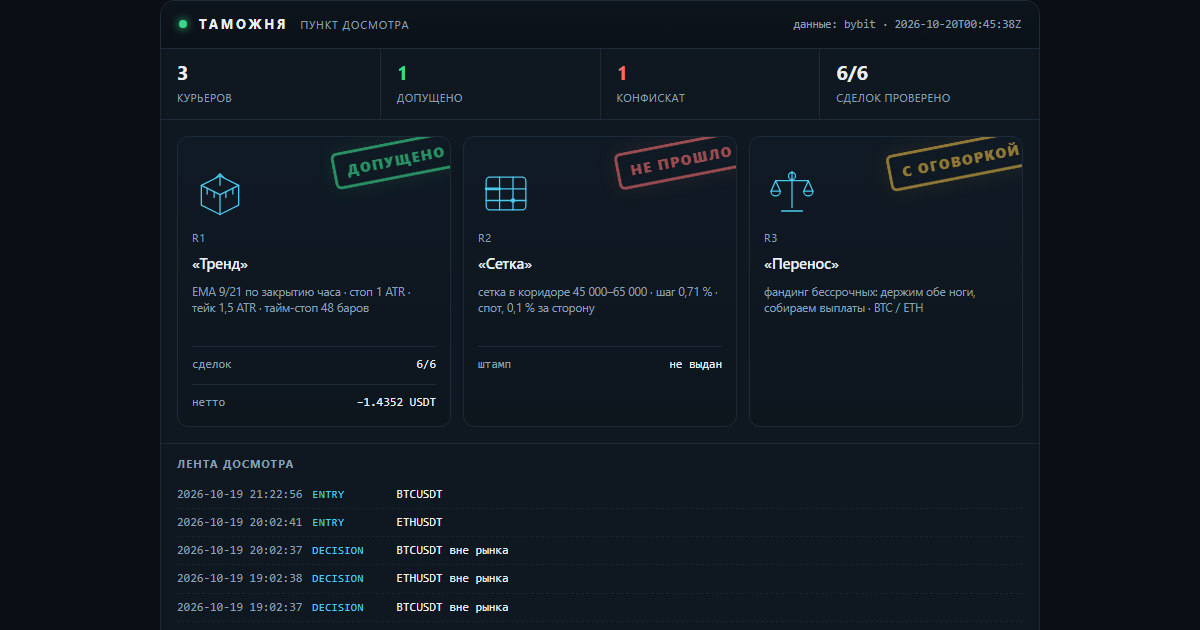
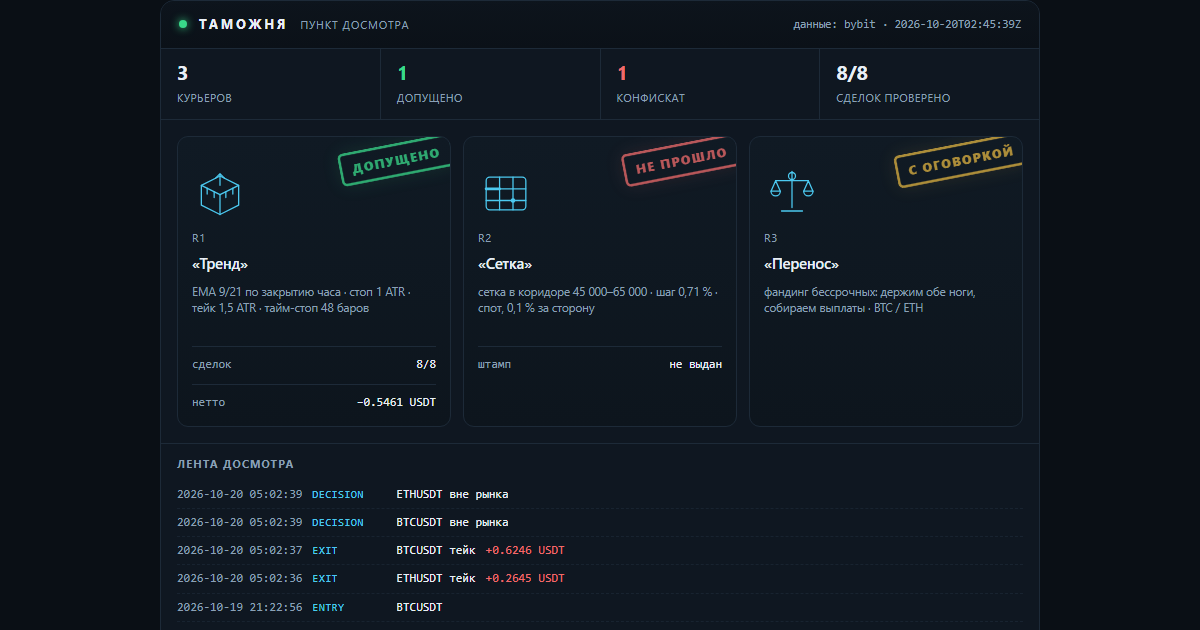
lab: таможня — свежие числа досмотра

diff --git a/docs/customs.html b/docs/customs.html
@@ -16,7 +16,7 @@
   <h1><a href="index.html">Gramwright Lab</a></h1>
   <p>Журнал проверки торговых гипотез: что проверяли, что вышло по факту, сколько съели издержки. Числа берутся из журнала стенда. Не инвестиционная рекомендация.</p>
 </header>
-<h1>Таможня</h1><p class="intro">Пункт досмотра заявленных результатов. Стратегии приезжают с грузом обещаний, и каждая проходит проверку по публичным данным биржи: цены существуют, комиссии по тарифу, нетто сходится. Что прошло — получает штамп. Что не прошло — в конфискат, с причиной. Штамп означает «записи подлинные», а не «стратегия прибыльна».</p><p><img src="img/customs.png" alt="Терминал досмотра: три курьера, штампы, лента событий" style="width:100%;height:auto;border:1px solid var(--line);border-radius:10px"></p><p class="c-note">Сверху — тот же терминал, что собирается из журналов: счётчики, эмблемы курьеров, штампы и лента последних событий. Ниже — то же самое текстом, чтобы читалось с телефона и индексировалось поиском.</p><article><h2>R1 «Тренд» <span class="verdict">— <span class="c-ok">допущено</span></span></h2><p><strong>Правило:</strong> EMA 9/21 по закрытию часа · стоп 1 ATR · тейк 1,5 ATR · тайм-стоп 48 баров</p><p><strong>Декларация:</strong> Заявлено до прогона: держать 30 сделок, лимит нотионала 10 % от счёта, стоп дня −1 %. Прибыль не заявлялась — это важно: курьер не обещал доход.</p><p><strong>Проверено по публичным свечам, без ключей:</strong> 6 из 6 сделок. Сумма нетто −1.4352 USDT.</p><ul class="c-chk"><li class="y">BTCUSDT: нетто −0.8746 USDT · комиссии 0.0901 · проверено · с поправкой</li><li class="y">BTCUSDT: нетто −0.5441 USDT · комиссии 0.0896 · проверено</li><li class="y">ETHUSDT: нетто −0.2253 USDT · комиссии 0.0266 · проверено</li><li class="y">ETHUSDT: нетто −0.1513 USDT · комиссии 0.0265 · проверено</li><li class="y">ETHUSDT: нетто +0.1984 USDT · комиссии 0.0262 · проверено</li><li class="y">ETHUSDT: нетто +0.1617 USDT · комиссии 0.0260 · проверено</li></ul><p class="tags">журнал sha256 4177f691a4db8262… · проверяльщик verify-1</p><p class="c-note">Штамп означает: записи подлинные, а не что стратегия прибыльна. Курьер в минусе, и минус тоже стоит на штампе — иначе это была бы не проверка, а реклама.</p><p class="tags">источник: verify-report.json</p></article><article><h2>R2 «Сетка» <span class="verdict">— <span class="c-bad">не прошло</span></span></h2><p><strong>Правило:</strong> сетка в коридоре 45 000–65 000 · шаг 0,71 % · спот, 0,1 % за сторону</p><p><strong>Декларация:</strong> Заявлено: «44 % урожая уходит бирже в виде комиссий». Кроме того — перевес над простым владением монетой.</p><p><strong>Что сошлось:</strong></p><ul class="c-chk"><li class="y">сами числа пересчитаны и воспроизводятся: коридор 45–65k был активен 23 % всей истории и 28 % последних двух лет</li></ul><p><strong>Что не сошлось:</strong></p><ul class="c-chk"><li class="n">44 % не подтвердилось: при шаге 0,71 % и тарифе 0,1 % комиссия съедает 28,3 % шага. Чтобы получить 44 %, нужен шаг 0,45 % — это около 80 уровней, а не 50</li><li class="n">от урожая доля комиссий 85,5 % за всю историю и 49,6 % за последние два года — тоже не 44 %</li><li class="n">перевес над владением посчитан на тарифе 0,055 %: при нём +1,32 п. п., на розничном 0,1 % — −0,72 п. п. То есть перевес исчезает</li><li class="n">семилетний тест стартовал в сентябре 2019 при биткоине около 10 000 — ниже коридора. Он говорит, что фиксированный коридор не подходит для периода, а не что сетка отстаёт</li></ul><p class="tags">источник: lab_grid.py, пересчёт 17.10.2026</p></article><article><h2>R3 «Перенос» <span class="verdict">— <span class="c-warn">с оговоркой</span></span></h2><p><strong>Правило:</strong> фандинг бессрочных: держим обе ноги, собираем выплаты · BTC / ETH</p><p><strong>Декларация:</strong> Заявлено: около 11,9 % в год от выплат фандинга при просадке выплатной кривой меньше 2 %.</p><p><strong>Что сошлось:</strong></p><ul class="c-chk"><li class="y">выплаты взяты из публичной истории биржи, ключей не нужно: BTC — 7 190 выплат с 25.03.2020, ETH — 6 561 с 21.10.2020</li><li class="y">сумма сходится: +83,4 % и +83,2 % за 6,6 и 6,0 года — те самые ~11,9 % в год</li><li class="y">худшая просадка выплатной кривой: −1,65 % и −1,97 %</li></ul><p><strong>Что не сошлось:</strong></p><ul class="c-chk"><li class="n">оговорка 1: премию сжали — 2021 год дал +38,3 %, 2026 — +1,96 %. Прошлое не повторяется</li><li class="n">оговорка 2: вход-выход стоит около 0,31 %, капитала нужно 1,2 от нотионала, текущий базис −0,082 % против входа</li><li class="n">оговорка 3: риск площадки. История FTX в этой же таблице выглядела так же прилично</li></ul><p class="tags">источник: публичная история фандинга Bybit, замер 17.10.2026</p></article><div class="c-conf"><h3>Конфискат</h3><p><strong>«Сетка»: заявленные 44 % комиссий не подтвердились.</strong> Досмотр показал 28,3 % от шага и 85,5 % от урожая — цифра хуже заявленной по форме, но лучше по смыслу: сетку убивает не размер шага, а то, что урожай почти весь уходит в комиссии. Это и вышло в выпуск — с поправкой, а не с красивой цифрой.</p></div><p class="c-note">Пломба: <code>2026-10-20T00:45:38Z</code> · нотариус FreeTSA · Oct 20 00:45:38 2026 GMT · подпись подтверждена. Манифест скрепляет отчёт проверки, журнал сделок и декларации курьеров: подменишь любую цифру — пломба перестанет сходиться.</p><p class="c-note">Досмотр идёт по публичным минутным свечам и публичной истории фандинга — ключей у проверяющего нет, и он может повторить проверку сам.</p><p class="c-note">Контент образовательный, не является инвестиционной рекомендацией. Торговля связана с риском потери капитала.</p>
+<h1>Таможня</h1><p class="intro">Пункт досмотра заявленных результатов. Стратегии приезжают с грузом обещаний, и каждая проходит проверку по публичным данным биржи: цены существуют, комиссии по тарифу, нетто сходится. Что прошло — получает штамп. Что не прошло — в конфискат, с причиной. Штамп означает «записи подлинные», а не «стратегия прибыльна».</p><p><img src="img/customs.png" alt="Терминал досмотра: три курьера, штампы, лента событий" style="width:100%;height:auto;border:1px solid var(--line);border-radius:10px"></p><p class="c-note">Сверху — тот же терминал, что собирается из журналов: счётчики, эмблемы курьеров, штампы и лента последних событий. Ниже — то же самое текстом, чтобы читалось с телефона и индексировалось поиском.</p><article><h2>R1 «Тренд» <span class="verdict">— <span class="c-ok">допущено</span></span></h2><p><strong>Правило:</strong> EMA 9/21 по закрытию часа · стоп 1 ATR · тейк 1,5 ATR · тайм-стоп 48 баров</p><p><strong>Декларация:</strong> Заявлено до прогона: держать 30 сделок, лимит нотионала 10 % от счёта, стоп дня −1 %. Прибыль не заявлялась — это важно: курьер не обещал доход.</p><p><strong>Проверено по публичным свечам, без ключей:</strong> 8 из 8 сделок. Сумма нетто −0.5461 USDT.</p><ul class="c-chk"><li class="y">BTCUSDT: нетто −0.8746 USDT · комиссии 0.0901 · проверено · с поправкой</li><li class="y">BTCUSDT: нетто −0.5441 USDT · комиссии 0.0896 · проверено</li><li class="y">ETHUSDT: нетто −0.2253 USDT · комиссии 0.0266 · проверено</li><li class="y">ETHUSDT: нетто −0.1513 USDT · комиссии 0.0265 · проверено</li><li class="y">ETHUSDT: нетто +0.1984 USDT · комиссии 0.0262 · проверено</li><li class="y">ETHUSDT: нетто +0.1617 USDT · комиссии 0.0260 · проверено</li><li class="y">ETHUSDT: нетто +0.2645 USDT · комиссии 0.0263 · проверено</li><li class="y">BTCUSDT: нетто +0.6246 USDT · комиссии 0.0897 · проверено</li></ul><p class="tags">журнал sha256 eef623a56e93b5cd… · проверяльщик verify-1</p><p class="c-note">Штамп означает: записи подлинные, а не что стратегия прибыльна. Курьер в минусе, и минус тоже стоит на штампе — иначе это была бы не проверка, а реклама.</p><p class="tags">источник: verify-report.json</p></article><article><h2>R2 «Сетка» <span class="verdict">— <span class="c-bad">не прошло</span></span></h2><p><strong>Правило:</strong> сетка в коридоре 45 000–65 000 · шаг 0,71 % · спот, 0,1 % за сторону</p><p><strong>Декларация:</strong> Заявлено: «44 % урожая уходит бирже в виде комиссий». Кроме того — перевес над простым владением монетой.</p><p><strong>Что сошлось:</strong></p><ul class="c-chk"><li class="y">сами числа пересчитаны и воспроизводятся: коридор 45–65k был активен 23 % всей истории и 28 % последних двух лет</li></ul><p><strong>Что не сошлось:</strong></p><ul class="c-chk"><li class="n">44 % не подтвердилось: при шаге 0,71 % и тарифе 0,1 % комиссия съедает 28,3 % шага. Чтобы получить 44 %, нужен шаг 0,45 % — это около 80 уровней, а не 50</li><li class="n">от урожая доля комиссий 85,5 % за всю историю и 49,6 % за последние два года — тоже не 44 %</li><li class="n">перевес над владением посчитан на тарифе 0,055 %: при нём +1,32 п. п., на розничном 0,1 % — −0,72 п. п. То есть перевес исчезает</li><li class="n">семилетний тест стартовал в сентябре 2019 при биткоине около 10 000 — ниже коридора. Он говорит, что фиксированный коридор не подходит для периода, а не что сетка отстаёт</li></ul><p class="tags">источник: lab_grid.py, пересчёт 17.10.2026</p></article><article><h2>R3 «Перенос» <span class="verdict">— <span class="c-warn">с оговоркой</span></span></h2><p><strong>Правило:</strong> фандинг бессрочных: держим обе ноги, собираем выплаты · BTC / ETH</p><p><strong>Декларация:</strong> Заявлено: около 11,9 % в год от выплат фандинга при просадке выплатной кривой меньше 2 %.</p><p><strong>Что сошлось:</strong></p><ul class="c-chk"><li class="y">выплаты взяты из публичной истории биржи, ключей не нужно: BTC — 7 190 выплат с 25.03.2020, ETH — 6 561 с 21.10.2020</li><li class="y">сумма сходится: +83,4 % и +83,2 % за 6,6 и 6,0 года — те самые ~11,9 % в год</li><li class="y">худшая просадка выплатной кривой: −1,65 % и −1,97 %</li></ul><p><strong>Что не сошлось:</strong></p><ul class="c-chk"><li class="n">оговорка 1: премию сжали — 2021 год дал +38,3 %, 2026 — +1,96 %. Прошлое не повторяется</li><li class="n">оговорка 2: вход-выход стоит около 0,31 %, капитала нужно 1,2 от нотионала, текущий базис −0,082 % против входа</li><li class="n">оговорка 3: риск площадки. История FTX в этой же таблице выглядела так же прилично</li></ul><p class="tags">источник: публичная история фандинга Bybit, замер 17.10.2026</p></article><div class="c-conf"><h3>Конфискат</h3><p><strong>«Сетка»: заявленные 44 % комиссий не подтвердились.</strong> Досмотр показал 28,3 % от шага и 85,5 % от урожая — цифра хуже заявленной по форме, но лучше по смыслу: сетку убивает не размер шага, а то, что урожай почти весь уходит в комиссии. Это и вышло в выпуск — с поправкой, а не с красивой цифрой.</p></div><p class="c-note">Пломба: <code>2026-10-20T02:45:39Z</code> · нотариус FreeTSA · Oct 20 02:45:39 2026 GMT · подпись подтверждена. Манифест скрепляет отчёт проверки, журнал сделок и декларации курьеров: подменишь любую цифру — пломба перестанет сходиться.</p><p class="c-note">Досмотр идёт по публичным минутным свечам и публичной истории фандинга — ключей у проверяющего нет, и он может повторить проверку сам.</p><p class="c-note">Контент образовательный, не является инвестиционной рекомендацией. Торговля связана с риском потери капитала.</p>
 <footer class="site">
   Код стенда и аудитора: <a href="https://github.com/XSlaidx/truth-engine">XSlaidx/truth-engine</a>
   &middot; <a href="graveyard.html">кладбище правил</a>
